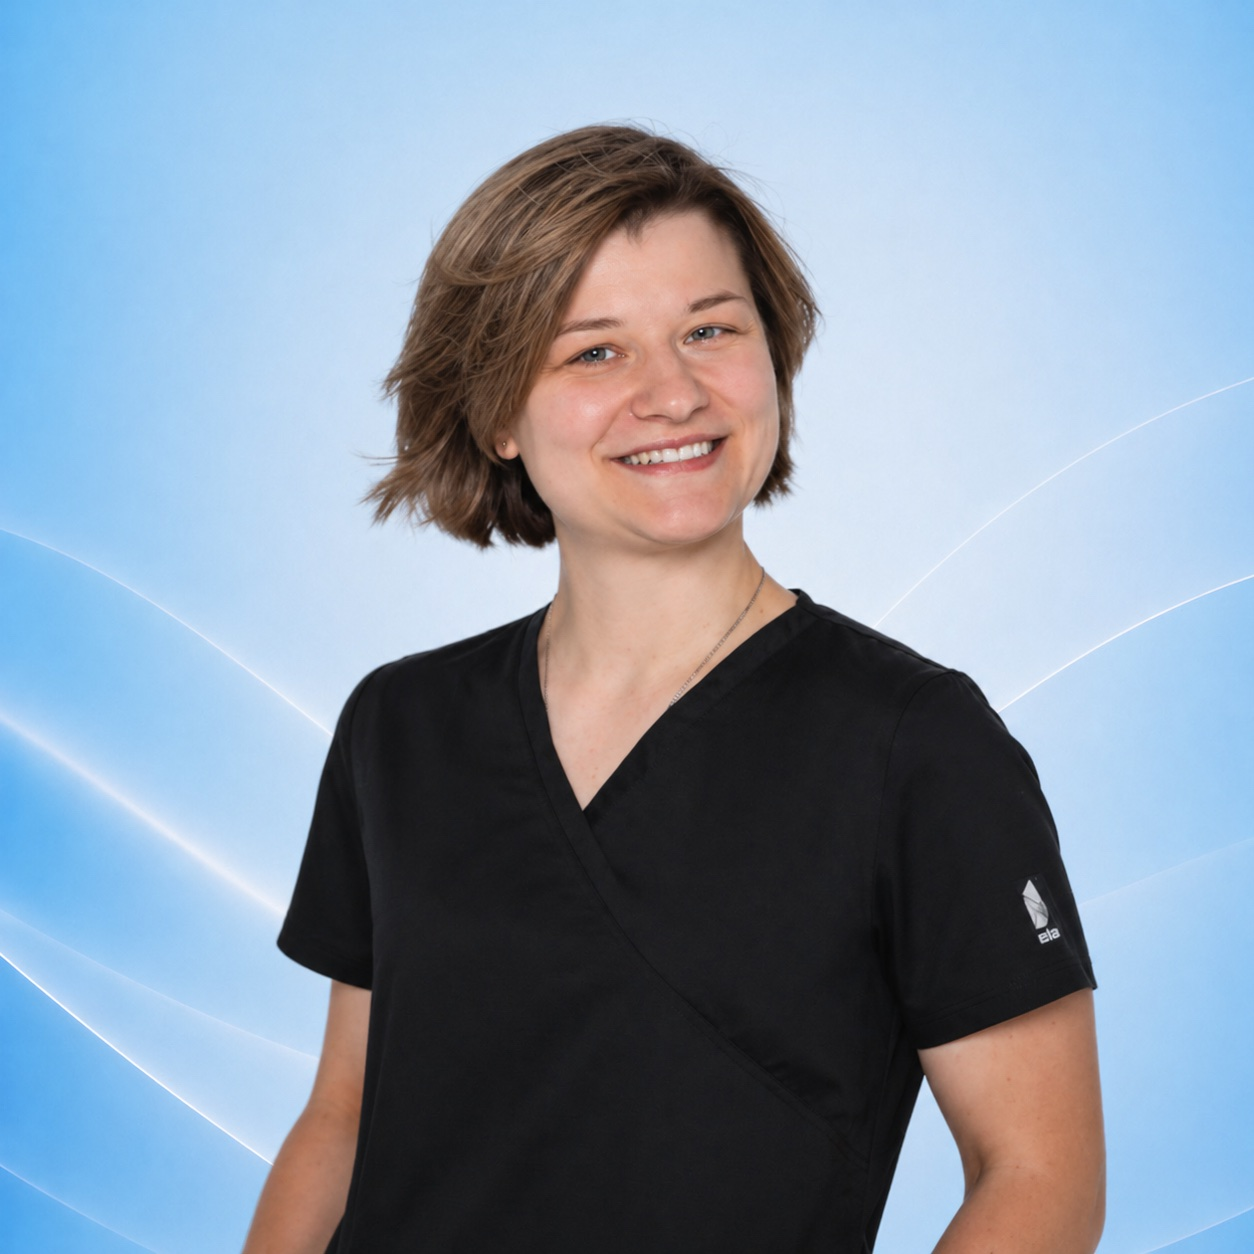
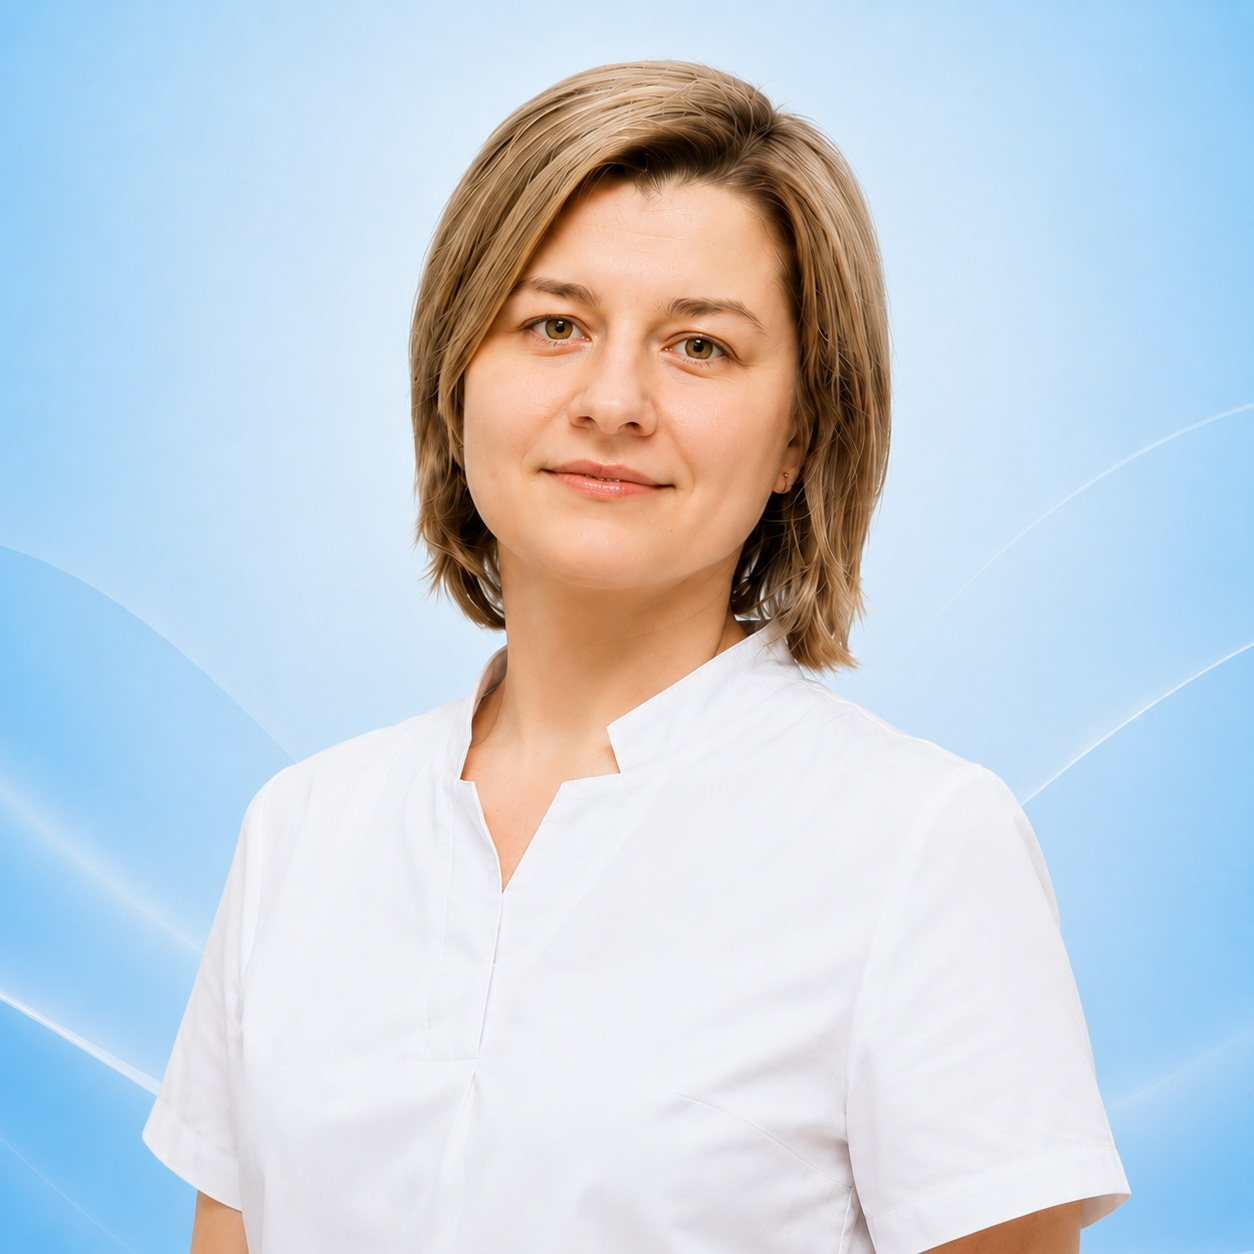
FEATURE: Update terminology and improve image handling across multiple components

diff --git a/doctors.php b/doctors.php
@@ -24,7 +24,7 @@ $iconPath = CLINIC_ICON_PATH;
 $iconUrl  = $siteUrl . $iconPath;
 $socialImageUrl = bioinmed_default_social_image_url();
 $canonicalUrl = $siteUrl . '/doctors';
-$pageTitle = 'Наши специалисты — клиника БИОИНМЕД';
+$pageTitle = 'Профессиональная команда — клиника БИОИНМЕД';
 $pageDescription = 'Познакомьтесь с командой врачей клиники БИОИНМЕД. Опытные специалисты в области остеопатии, рефлексотерапии, гомеопатии, психотерапии и восстановительной медицины в Москве.';
 $phone1      = CLINIC_PHONE;
 $phone1link  = preg_replace('/\D/', '', $phone1);
@@ -65,7 +65,7 @@ $pageStructuredData = [
 $organizationStructuredData = bioinmed_medical_organization_schema();
 $breadcrumbStructuredData = bioinmed_breadcrumb_schema([
     ['name' => 'Главная', 'url' => '/'],
-    ['name' => 'Специалисты', 'url' => '/doctors'],
+    ['name' => 'Профессиональная команда', 'url' => '/doctors'],
 ]);
 ?>
 <!doctype html>
@@ -118,11 +118,11 @@ echo $header->render();
             <nav class="mb-6 flex items-center gap-2 text-xs text-[#7a9cc4]">
                 <a href="/" class="hover:text-[#2fbdef]">Главная</a>
                 <i class="fa-solid fa-chevron-right text-[0.6rem]"></i>
-                <span class="text-[#0f2749]">Специалисты</span>
+                <span class="text-[#0f2749]">Профессиональная команда</span>
             </nav>
             <div class="max-w-2xl">
                 <p class="text-xs font-semibold uppercase tracking-[0.18em] text-[#2a5a94]">Клиника БИОИНМЕД · Москва</p>
-                <h1 class="mt-2 text-2xl font-bold leading-tight text-[#0f3463] md:text-3xl lg:text-4xl">Наши специалисты</h1>
+                <h1 class="mt-2 text-2xl font-bold leading-tight text-[#0f3463] md:text-3xl lg:text-4xl">Профессиональная команда</h1>
                 <p class="mt-3 text-sm leading-relaxed text-[#355b89] md:text-base">
                     Команда клиники БИОИНМЕД — врачи с многолетним опытом в области интегративной медицины, остеопатии, рефлексотерапии, гомеопатии и психотерапии. Каждый специалист строит индивидуальный план лечения.
                 </p>
@@ -135,6 +135,7 @@ echo $header->render();
     $chief = $doctors[0] ?? null;
     if ($chief):
         $chiefExp = trim((string)($chief['experience'] ?? ''));
+        $chiefImage = bioinmed_versioned_asset_path('/public/images/team/' . ($chief['image'] ?? ''));
         $chiefYears = null;
         if (preg_match('/(\d+)\s*(?:лет|год)/ui', $chiefExp, $m)) $chiefYears = $m[1];
     ?>
@@ -143,7 +144,7 @@ echo $header->render();
             <p class="mb-6 text-xs font-semibold uppercase tracking-[0.2em] text-[#2fbdef]">Главный врач</p>
             <div class="fade-up grid gap-8 rounded-3xl border border-[#d6e5f2] bg-white p-6 shadow-[0_18px_40px_rgba(6,29,60,0.08)] md:grid-cols-[320px_1fr] md:p-8">
                 <div class="overflow-hidden rounded-2xl">
-                    <img src="/public/images/team/<?php echo e($chief['image']); ?>"
+                    <img src="<?php echo e($chiefImage); ?>"
                          alt="<?php echo e($chief['name']); ?>"
                          class="h-full max-h-[400px] w-full object-cover"
                          loading="eager"
@@ -188,12 +189,13 @@ echo $header->render();
     <section class="py-12 md:py-16">
         <div class="mx-auto max-w-6xl px-6 md:px-10">
             <p class="text-xs font-semibold uppercase tracking-[0.2em] text-[#2a5a94]">Команда клиники</p>
-            <h2 class="mt-2 text-xl font-bold text-[#0f3463] md:text-2xl">Все специалисты</h2>
+            <h2 class="mt-2 text-xl font-bold text-[#0f3463] md:text-2xl">Врачи команды</h2>
             <p class="mt-2 text-sm text-[#4a6f9c]">Нажмите на карточку врача, чтобы узнать подробнее о его специализации и записаться на приём</p>
 
             <div class="mt-8 grid gap-5 sm:grid-cols-2 lg:grid-cols-3">
                 <?php foreach (array_slice($doctors, 1) as $index => $doc):
                     $docExp = trim((string)($doc['experience'] ?? ''));
+                    $docImage = bioinmed_versioned_asset_path('/public/images/team/' . ($doc['image'] ?? ''));
                     $docYears = null;
                     if (preg_match('/(\d+)\s*(?:лет|год)/ui', $docExp, $m)) $docYears = $m[1];
                 ?>
@@ -201,7 +203,7 @@ echo $header->render();
                    class="fade-up group flex flex-col overflow-hidden rounded-3xl border border-[#dce8f5] bg-white shadow-[0_8px_24px_rgba(8,36,70,0.07)] transition hover:border-[#2fbdef] hover:shadow-[0_12px_30px_rgba(47,189,239,0.13)]"
                    style="transition-delay:<?php echo $index * 60; ?>ms">
                     <div class="overflow-hidden">
-                        <img src="/public/images/team/<?php echo e($doc['image']); ?>"
+                                <img src="<?php echo e($docImage); ?>"
                              alt="<?php echo e($doc['name']); ?>"
                                 class="aspect-square w-full object-cover transition duration-300 group-hover:scale-[1.03]"
                              loading="lazy"

diff --git a/includes/components/Components.php b/includes/components/Components.php
@@ -352,7 +352,7 @@ class Header extends Component {
                     <nav class="menu-strip flex items-center gap-6 overflow-x-auto whitespace-nowrap text-[0.92rem] font-medium text-[#173b64] lg:overflow-visible">
                         <a href="/about" class="{$desktop_about_class}"{$desktop_about_aria}>О клинике</a>
                         {$desktop_services_dropdown}
-                        <a href="/doctors" class="{$desktop_doctors_class}"{$desktop_doctors_aria}>Специалисты</a>
+                        <a href="/doctors" class="{$desktop_doctors_class}"{$desktop_doctors_aria}>Профессиональная команда</a>
                         <a href="/#reviews" class="{$desktop_reviews_class}">Отзывы</a>
                         <a href="/#faq" class="{$desktop_faq_class}">Вопросы</a>
                         <a href="/prices" class="{$desktop_prices_class}"{$desktop_prices_aria}>Цены</a>
@@ -388,7 +388,7 @@ class Header extends Component {
             <nav id="mob-nav">
                 <a href="/about" onclick="closeMobMenu()"{$mobile_about_attr}>О клинике</a>
                 {$mobile_services_dropdown}
-                <a href="/doctors" onclick="closeMobMenu()"{$mobile_doctors_attr}>Специалисты</a>
+                <a href="/doctors" onclick="closeMobMenu()"{$mobile_doctors_attr}>Профессиональная команда</a>
                 <a href="/#reviews" onclick="closeMobMenu()">Отзывы</a>
                 <a href="/#faq" onclick="closeMobMenu()">Вопросы</a>
                 <a href="/prices" onclick="closeMobMenu()"{$mobile_prices_attr}>Цены</a>
@@ -1396,12 +1396,13 @@ class ChiefDoctorBlock extends Component {
         }
 
         $leadership = isset($this->data['leadership']) ? $this->e($this->data['leadership']) : 'Руководит клиническим процессом и развитием стандартов медицинской помощи.';
+        $chief_image = bioinmed_versioned_asset_path('/public/images/team/' . ($this->data['image'] ?? ''));
 
         return <<<HTML
         <section class="border-b border-[#e6eef7] bg-[#f6fbff] py-10 md:py-14">
             <div class="mx-auto max-w-6xl px-6 md:px-10">
                 <div class="grid gap-8 rounded-3xl border border-[#d6e5f2] bg-white p-6 shadow-[0_18px_40px_rgba(6,29,60,0.08)] md:grid-cols-[0.85fr_1.15fr] md:p-8">
-                    <img src="/public/images/team/{$this->e($this->data['image'])}" alt="{$this->e($this->data['name'])}" class="h-full max-h-[460px] w-full rounded-2xl object-cover" loading="lazy" />
+                    <img src="{$this->e($chief_image)}" alt="{$this->e($this->data['name'])}" class="h-full max-h-[460px] w-full rounded-2xl object-cover" loading="lazy" />
                     <div>
                         <p class="text-[0.74rem] font-semibold uppercase tracking-[0.24em] text-[#2fbdef]">Экспертный подход</p>
                         <h2 class="mt-2 text-[1.35rem] font-bold leading-tight text-[#0f2749] md:text-[1.6rem]">{$this->e($this->data['name'])}</h2>
@@ -1478,9 +1479,10 @@ class DoctorsGrid extends Component {
         foreach ($this->data as $doctor) {
             $slug = isset($doctor['slug']) ? $this->e($doctor['slug']) : '';
             $doctor_link = '/doctors/' . $slug;
+            $doctor_image = bioinmed_versioned_asset_path('/public/images/team/' . ($doctor['image'] ?? ''));
             $cards_html .= <<<HTML
             <article class="min-w-[280px] max-w-[280px] shrink-0 overflow-hidden rounded-2xl border border-[#dce8f5] bg-white shadow-[0_10px_28px_rgba(9,39,72,0.08)] sm:min-w-[310px] sm:max-w-[310px] flex h-[560px] flex-col sm:h-[585px]">
-                <img src="/public/images/team/{$this->e($doctor['image'])}" alt="{$this->e($doctor['name'])}" class="h-72 w-full object-cover" loading="lazy">
+                <img src="{$this->e($doctor_image)}" alt="{$this->e($doctor['name'])}" class="h-72 w-full object-cover" loading="lazy">
                 <div class="flex flex-col flex-1 p-6">
                     <div class="flex-1">
                         <h3 class="text-lg font-bold leading-tight text-[#0f3463]" style="display:-webkit-box;-webkit-line-clamp:2;-webkit-box-orient:vertical;overflow:hidden;">{$this->e($doctor['name'])}</h3>
@@ -1952,7 +1954,7 @@ class Footer extends Component {
                         <h4 class="text-[0.96rem] font-bold uppercase tracking-[0.12em] text-[#2fbdef] mb-4">Компания</h4>
                         <ul class="space-y-2">
                             <li><a href="/about" class="text-[0.96rem] text-[#214a7f] hover:text-[#2fbdef] transition-colors">О клинике</a></li>
-                            <li><a href="/doctors" class="text-[0.96rem] text-[#214a7f] hover:text-[#2fbdef] transition-colors">Специалисты</a></li>
+                            <li><a href="/doctors" class="text-[0.96rem] text-[#214a7f] hover:text-[#2fbdef] transition-colors">Профессиональная команда</a></li>
                             <li><a href="/prices" class="text-[0.96rem] text-[#214a7f] hover:text-[#2fbdef] transition-colors">Прайс-лист</a></li>
                             <li><a href="/privacy.php" class="text-[0.96rem] text-[#214a7f] hover:text-[#2fbdef] transition-colors">Политика конфиденциальности</a></li>
                             <li><a href="/user-agreement.php" class="text-[0.96rem] text-[#214a7f] hover:text-[#2fbdef] transition-colors">Пользовательское соглашение</a></li>

diff --git a/doctor.php b/doctor.php
@@ -60,13 +60,16 @@ $experienceYears = null; // numeric years only
 if (preg_match('/(\d+)\s*(?:лет|год)/ui', $experienceText, $experienceMatch)) {
     $experienceYears = $experienceMatch[1];
 }
+$doctorImagePath = $doctor && !empty($doctor['image'])
+    ? bioinmed_versioned_asset_path('/public/images/team/' . $doctor['image'])
+    : '';
 $socialImageUrl = $doctor && !empty($doctor['image'])
-    ? bioinmed_absolute_url('/public/images/team/' . $doctor['image'])
+    ? bioinmed_absolute_url($doctorImagePath)
     : bioinmed_default_social_image_url();
 $organizationStructuredData = bioinmed_medical_organization_schema();
 $breadcrumbStructuredData = bioinmed_breadcrumb_schema([
     ['name' => 'Главная', 'url' => '/'],
-    ['name' => 'Специалисты', 'url' => '/doctors'],
+    ['name' => 'Профессиональная команда', 'url' => '/doctors'],
     ['name' => $doctor['name'] ?? 'Профиль врача', 'url' => $canonicalUrl],
 ]);
 ?>
@@ -94,7 +97,7 @@ $breadcrumbStructuredData = bioinmed_breadcrumb_schema([
         'jobTitle'  => $doctor['title'] ?? '',
         'description' => $doctor['bio'] ?? '',
         'worksFor'  => ['@type' => 'MedicalOrganization', 'name' => CLINIC_NAME, 'url' => CLINIC_SITE_URL],
-        'image'     => CLINIC_SITE_URL . '/public/images/team/' . ($doctor['image'] ?? ''),
+        'image'     => bioinmed_absolute_url($doctorImagePath),
         'url'       => $canonicalUrl,
         'mainEntityOfPage' => $canonicalUrl,
     ], JSON_UNESCAPED_UNICODE | JSON_UNESCAPED_SLASHES); ?></script>
@@ -137,7 +140,7 @@ echo $header->render();
             <nav class="mb-6 flex items-center gap-2 text-xs text-[#7a9cc4]">
                 <a href="/" class="hover:text-[#2fbdef]">Главная</a>
                 <i class="fa-solid fa-chevron-right text-[0.6rem]"></i>
-                <a href="/doctors" class="hover:text-[#2fbdef]">Специалисты</a>
+                <a href="/doctors" class="hover:text-[#2fbdef]">Профессиональная команда</a>
                 <i class="fa-solid fa-chevron-right text-[0.6rem]"></i>
                 <span class="text-[#0f2749]"><?php echo e($doctor['name']); ?></span>
             </nav>
@@ -147,7 +150,7 @@ echo $header->render();
                 <!-- photo -->
                 <div class="fade-up">
                     <div class="overflow-hidden rounded-3xl border border-[#d9e7f3] shadow-[0_12px_36px_rgba(8,36,70,0.10)]">
-                        <img src="/public/images/team/<?php echo e($doctor['image']); ?>"
+                            <img src="<?php echo e($doctorImagePath); ?>"
                              alt="<?php echo e($doctor['name']); ?>"
                              class="h-full w-full object-cover"
                              loading="eager"

diff --git a/config.php b/config.php
@@ -14,7 +14,7 @@ define('ONLINE_BOOKING_URL', '#contact');
 define('CLINIC_VK', 'https://vk.com/bioinmed');
 define('CLINIC_TELEGRAM', 'https://t.me/bioinmed');
 define('HERO_TITLE', 'Восстановление здоровья через интегративную медицину');
-define('HERO_IMAGE', '/public/images/team/kostromina_i_v.png');
+define('HERO_IMAGE', '/public/images/team/kostromina-inna-viktorovna-1x1-1.jpg');
 define('RECAPTCHA_SITE_KEY', getenv('BIOINMED_RECAPTCHA_SITE_KEY') ?: '6LfmOs0sAAAAAKHWO2jG24uuWIL7UBy3x7gG8awh');
 define('RECAPTCHA_SECRET_KEY', getenv('BIOINMED_RECAPTCHA_SECRET_KEY') ?: '6LfmOs0sAAAAAJQP0aJ3ho1kB7VHy4VeyW_s4GQe');
 
@@ -51,6 +51,30 @@ function bioinmed_absolute_url($path = '') {
         return $value;
     }
     return $site_url . '/' . ltrim($value, '/');
+}
+
+function bioinmed_versioned_asset_path($path = '') {
+    $value = trim((string)$path);
+    if ($value === '') {
+        return '';
+    }
+
+    if (preg_match('~^https?://~i', $value)) {
+        return $value;
+    }
+
+    $normalized = '/' . ltrim($value, '/');
+    $full_path = __DIR__ . $normalized;
+    if (!is_file($full_path)) {
+        return $normalized;
+    }
+
+    $version = @filemtime($full_path);
+    if (!is_int($version) || $version <= 0) {
+        return $normalized;
+    }
+
+    return $normalized . '?v=' . $version;
 }
 
 function bioinmed_default_social_image_path() {

diff --git a/404.php b/404.php
@@ -76,7 +76,7 @@ echo $header->render();
                 <div class="rounded-2xl border border-[#dce8f5] bg-[#f8fcff] p-4 text-sm text-[#355b89]">
                     <p class="font-semibold text-[#0f3463]">Ищете врача?</p>
                     <p class="mt-1">Посмотрите команду специалистов и выберите удобный формат приёма.</p>
-                    <a href="/doctors" class="mt-3 inline-flex items-center gap-1 text-xs font-semibold text-[#2fbdef] hover:text-[#1fb3d8]">Открыть специалистов <i class="fa-solid fa-arrow-right text-[0.65rem]"></i></a>
+                    <a href="/doctors" class="mt-3 inline-flex items-center gap-1 text-xs font-semibold text-[#2fbdef] hover:text-[#1fb3d8]">Открыть профессиональную команду <i class="fa-solid fa-arrow-right text-[0.65rem]"></i></a>
                 </div>
                 <div class="rounded-2xl border border-[#dce8f5] bg-[#f8fcff] p-4 text-sm text-[#355b89]">
                     <p class="font-semibold text-[#0f3463]">Нужна помощь с навигацией?</p>

diff --git a/about.php b/about.php
@@ -39,7 +39,7 @@ $chiefTitle = trim((string)($chief['title'] ?? 'Главный врач'));
 $chiefBio = trim((string)($chief['bio'] ?? 'Эксперт в области интегративной медицины, биорегуляции и персональных программ восстановления.'));
 $chiefLeadership = trim((string)($chief['leadership'] ?? ''));
 $chiefExperience = trim((string)($chief['experience'] ?? 'Более 30 лет врачебной практики'));
-$chiefImage = '/public/images/team/kostromina_i_v.png';
+$chiefImage = '/public/images/team/kostromina-inna-viktorovna-1x1-1.jpg';
 $mapUrl = 'https://yandex.com/maps/-/CPGGyEzo';
 if (!empty($chief['image'])) {
 	$chiefImage = '/public/images/team/' . ltrim((string)$chief['image'], '/');
